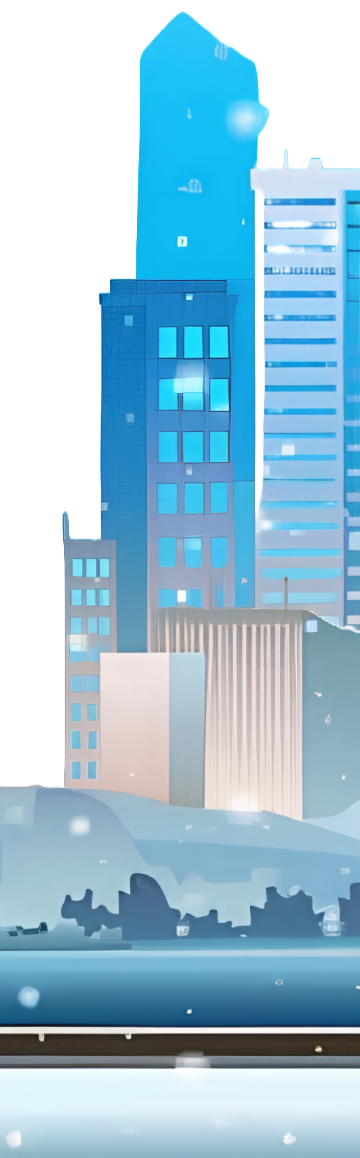
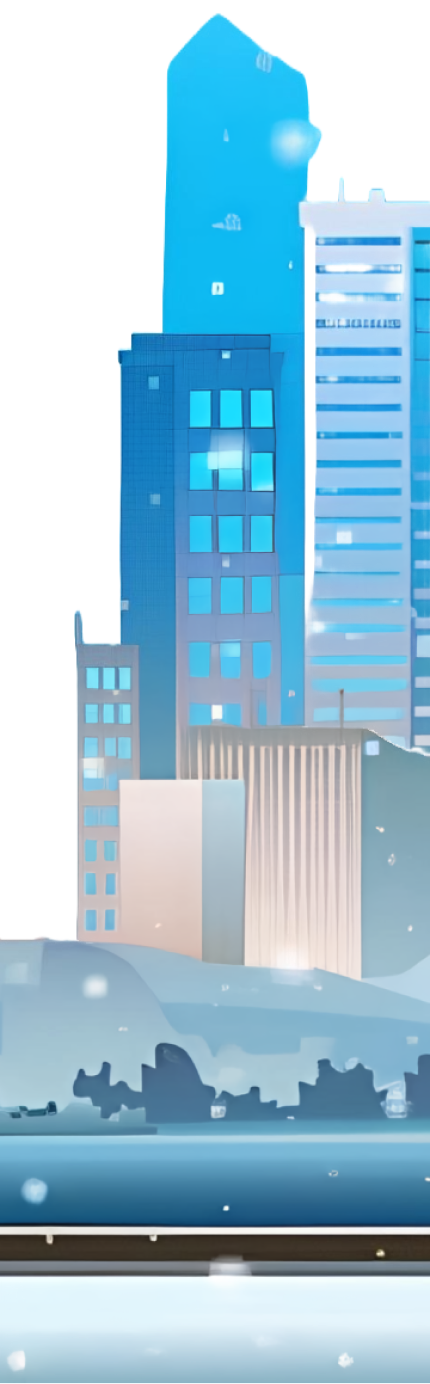
Feat: 배경 위치 조정 가능하게 추가

diff --git a/src/pages/Home/Home.tsx b/src/pages/Home/Home.tsx
@@ -3,11 +3,17 @@ import MainPageLayout from '@/components/MainPageLayout/MainPageLayout'
 import * as S from './style'
 import SnowFalling from '@/components/SnowFalling/SnowFalling'
 import SnowmanScene from '@/components/SnowmanScene/SnowmanScene';
+import { useRecoilValue } from 'recoil';
+import { snowmanHeightState } from '@/atoms/snowmanState';
 
 export default function Home() {
+  const snowmanHeight = useRecoilValue(snowmanHeightState);
+
   return (
 
     <MainPageLayout >
+      <S.Background height={snowmanHeight} />
+
         <SnowFalling />
         <S.SnowmanContainer>
           <SnowmanScene height={"500px"}/>

diff --git a/src/components/MainPageLayout/MainPageLayout.tsx b/src/components/MainPageLayout/MainPageLayout.tsx
@@ -5,6 +5,7 @@ import HamburgerButton from '../Button/HamburgerButton/HamburgerButton';
 import BellButton from '../Button/BellButton/BellButton';
 import useModal from '@/hooks/useModal';
 import AttackedListModal from '@/components/Modal/AttackedListModal/AttackedListModal';
+
 interface Props {
   children: React.ReactNode;
 }
@@ -16,7 +17,7 @@ export default function MainPageLayout({ children }: Props) {
     openModal,
     closeModal,
   } = useModal();
-  
+
   const handleHamburgerClick = () => {
     setIsSideBarOpen(!isSideBarOpen); // 사이드바 표시 상태 토글
   };

diff --git a/src/pages/Home/style.ts b/src/pages/Home/style.ts
@@ -1,6 +1,19 @@
 import styled from 'styled-components';
+import BackgroundImg from '@/assets/Background/Background.png';
+
+export const Background = styled.div<{ height: number }>`
+  width: 430px;
+  height: 850px;
+  max-height: 932px;
+  background-image: url(${BackgroundImg});
+  background-repeat: no-repeat;
+  background-size: cover;
+  background-position: ${({ height }) => `bottom -${height*10}px center`};
+  overflow: hidden;
+`;
 
 export const SnowmanContainer = styled.div`
     bottom: 0px;
     position: absolute;
+    z-index: 2;
 `;

diff --git a/src/components/SnowmanScene/style.ts b/src/components/SnowmanScene/style.ts
@@ -12,10 +12,12 @@ export const SnowmanCanvas = styled(Canvas)`
 export const Container = styled.div`
   width: 100%;
   background-color: transparent;
+  
 `;
 
 export const Wrapper = styled.div<SnowmanSceneProps>`
   width: 100%; // 너비를 300px로 설정
   height: ${(props) => props.height || '500px'}; // props에서 height 값을 사용하거나 기본값으로 '500px'를 설정합니다.
   background-size: cover; // 배경 이미지 사이즈 조정 (필요에 따라)
+  
 `;

diff --git a/src/atoms/snowmanState.ts b/src/atoms/snowmanState.ts
@@ -10,3 +10,8 @@ export const snowmanRotationState = atom<boolean>({
   default: false, // 기본 회전 각도는 0으로 설정
 
 });
+
+export const snowmanHeightState = atom<number>({
+  key: 'snowmanHeightState',
+  default: 0, // 초기 눈사람의 키는 0으로 설정
+});

diff --git a/src/components/MainPageLayout/style.ts b/src/components/MainPageLayout/style.ts
@@ -27,5 +27,7 @@ export const NavBar = styled.div`
   width: 100vw;
   height: 50px;
   background-color: transparent;
-  margin-top: -50px;
+  margin-top: 0px;
+  position: fixed;
+  z-index: 2;
 `;
